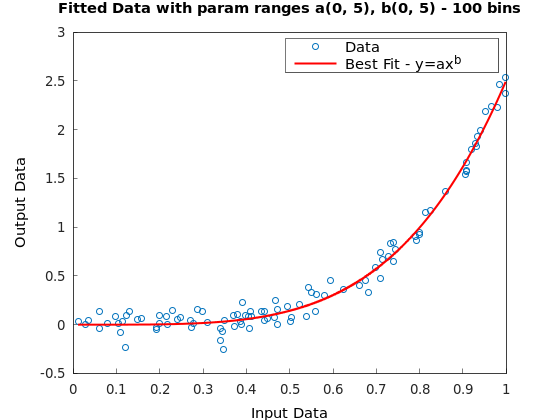
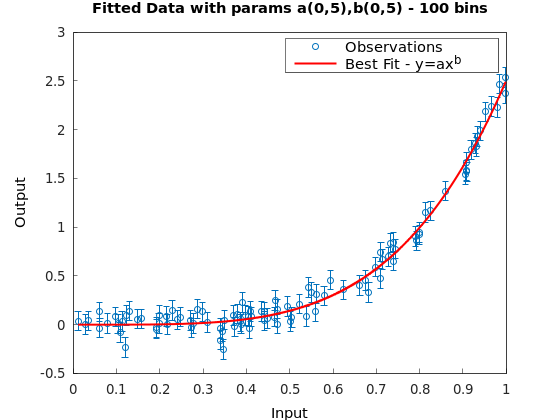
Ammended plots and constructor error handling
Included error handling for constructor when parameter space is too large with custom error for negative bins inputted causing uint to cycle to maximum possible value.
Slightly changed the plotting so that error bars are used.

diff --git a/test/source/test_sampler.cpp b/test/source/test_sampler.cpp
@@ -9,6 +9,7 @@
 #include <vector>
 #include <string>
 #include <sstream>
+#include <filesystem>
 
 using namespace Catch::Matchers;
 
@@ -177,9 +178,14 @@ TEST_CASE("Test file reader (double) with negative sigma value in second row", "
 
 }
 
-// TEST_CASE("Test Sampler constructor", "[Sampler]"){
-//     int placeholder;
-// }
+TEST_CASE("Test Sampler constructor", "[Sampler]"){
+    std::array<std::string, 2> names = {"a", "b"};
+    std::array<double, 2> min_vals = {0.4,1.9};
+    std::array<double, 2> max_vals = {3.0, 9.0};
+    UniformSampler<double, 2> uniform_sampler("data/problem_data_2D.txt",param_2_model_func<double>,names, min_vals, max_vals,2);
+
+
+}
 // TODO: Create test cases for constructor, rigidity = true for loadData and chheck for additional aspects of the sampling behaviour we want to check for. Add tests for param ranges of different sizes.
 TEST_CASE("Preliminary Test uniform sampling 1 to 2 dimensions with range (0,1)","[Uniform_Sampler]"){
     // instantiate Uniform Sampler with double data type and two parameters.
@@ -253,7 +259,7 @@ TEST_CASE("Test likelihood function","[Likelihood_Calc]"){
     }
 }
 
-TEST_CASE("Sampling Statistics","[Uniform_Sampler][Summarise]"){
+TEST_CASE("Sampling Statistics","[Uniform_Sampler][Summarise][Plotting]"){
     //  Made a python file to curve fit the same data to y = ax^b. Testing against parameters found using scipy.optimise.curve_fit
     std::array<std::string,2> names = {"a", "b"};
     std::array<double, 2> min_vals = {0, 0};
@@ -270,18 +276,21 @@ TEST_CASE("Sampling Statistics","[Uniform_Sampler][Summarise]"){
         CHECK_THAT(params_infos[i].mean_parameter,WithinRel(actual_param[i],0.01));
         CHECK_THAT(params_infos[i].marginal_distribution_peak,WithinAbs(actual_param[i],0.01 * params_infos[i].width));
     }
-    uniform_sampler.plot_histograms();
-    uniform_sampler.plot_best_fit();
+    REQUIRE_NOTHROW(uniform_sampler.plot_histograms());
+    REQUIRE_NOTHROW(uniform_sampler.plot_best_fit());
 }
 
-TEST_CASE("test g"){
+TEST_CASE("TEST PLOTTING","[Plotting][Uniform_Sampler]"){
     std::array<std::string,2> names = {"a", "b"};
-    std::array<double, 2> min_vals = {2.5, 3.5};
-    std::array<double, 2> max_vals = {3.5, 5};
+    std::array<double, 2> min_vals = {1.9, 3.1};
+    std::array<double, 2> max_vals = {3.5, 5.53};
 
     UniformSampler<double, 2> uniform_sampler("data/problem_data_2D.txt", param_2_model_func<double>, names, min_vals, max_vals, 1000);
     uniform_sampler.sample();
     uniform_sampler.summarise();
     uniform_sampler.plot_histograms();
     uniform_sampler.plot_best_fit();
+    CHECK(std::filesystem::exists("plots/Sample2D/MarginalDistribution/dist_b_3.1_5.53_1000_y=ax^b.png"));
+    CHECK(std::filesystem::exists("plots/Sample2D/MarginalDistribution/dist_a_1.9_3.5_1000_y=ax^b.png"));
+    CHECK(std::filesystem::exists("plots/Sample2D/CurveFit/fit_a_1.9_3.5_b_3.1_5.53_1000_y=ax^b.png"));
 }

diff --git a/include/Sampler.hpp b/include/Sampler.hpp
@@ -101,7 +101,7 @@ class Sampler
         }
     }
     
-    void plot_histograms(std::string func_desc = "y=Ax^b", std::string application_name = "Sample2D") const {
+    void plot_histograms(std::string func_desc = "y=ax^b", std::string application_name = "Sample2D") const {
         for (std::size_t i = 0; i < num_params; i++){
             std::string name = "Param " + params_info[i].name + " Marginal Distribution (" + std::to_string(bins) + " bins) - " + func_desc;
             std::string minimum_param_val = removeTrailingDecimalPlaces<REAL>(params_info[i].min);
@@ -117,18 +117,18 @@ class Sampler
         std::array<REAL, num_params> fit_params;
         for (std::size_t i = 0; i < num_params; i++){
             if (i != 0){
-                param_ranges += ", ";
+                param_ranges += ",";
                 file_param_ranges += "_";
             }
             file_param_ranges += params_info[i].name + "_" + removeTrailingDecimalPlaces<REAL>(params_info[i].min) + "_" + removeTrailingDecimalPlaces<REAL>(params_info[i].max); 
-            param_ranges += params_info[i].name + "(" + removeTrailingDecimalPlaces<REAL>(params_info[i].min) + ", " + removeTrailingDecimalPlaces<REAL>(params_info[i].max) + ")";
+            param_ranges += params_info[i].name + "(" + removeTrailingDecimalPlaces<REAL>(params_info[i].min) + "," + removeTrailingDecimalPlaces<REAL>(params_info[i].max) + ")";
             fit_params[i] = params_info[i].mean_parameter;
         }
         
-        std::string name = "Fitted Data with param ranges " + param_ranges + " - " + std::to_string(bins) + " bins";
+        std::string name = "Fitted Data with params " + param_ranges + " - " + std::to_string(bins) + " bins";
         std::string filepath = "plots/"+ application_name + "/CurveFit/fit_" + file_param_ranges + "_" + std::to_string(bins) + "_" + func_desc + ".png";
 
-        plot_fitted_data<REAL, num_params>(name, filepath,func_desc, fit_params, model_function, observations.inputs, observations.outputs);
+        plot_fitted_data<REAL, num_params>(name, filepath,func_desc, fit_params, model_function, observations.inputs, observations.outputs, observations.sigmas);
     }
 
     private:

diff --git a/include/UniformSampler.hpp b/include/UniformSampler.hpp
@@ -17,10 +17,17 @@
 template<typename REAL, std::size_t num_params>
 class UniformSampler : public Sampler<REAL, num_params>{
     public:
-    UniformSampler(const std::string &filepath, const std::function<REAL(REAL,std::array<REAL,num_params>&)> &func,std::array<std::string,num_params> names, std::array<REAL,num_params> min_values, std::array<REAL, num_params> max_values, uint num_bins = 100, const bool rigidity = false) : Sampler<REAL, num_params>(filepath, func,names, min_values, max_values, num_bins, rigidity){}
+    UniformSampler(const std::string &filepath, const std::function<REAL(REAL,std::array<REAL,num_params>&)> &func,std::array<std::string,num_params> names, std::array<REAL,num_params> min_values, std::array<REAL, num_params> max_values, uint num_bins = 100, const bool rigidity = false) : Sampler<REAL, num_params>(filepath, func,names, min_values, max_values, num_bins, rigidity){
+        if (num_bins > 400000000){ // check for negative value inputted causing uint to cycle back to maximum possible value.
+            throw std::domain_error("Error - Abnormally large number of bins selected above 400,000,000. Please use a smaller number of bins.");
+        }
+        if (std::pow(num_bins,num_params) > 10000000){
+            std::cerr << "Warning - Total parameter space exceeds 10,000,000. Uniform Sampling techniques are inefficient at this scale." << std::endl;
+        }
+    }
     void sample() override {
         if (this -> been_sampled){
-            std::cerr << "Error - Procedure aborted as UniformSampler instance has already sampled the data points." << std::endl;
+            std::cerr << "Error - Procedure aborted as this UniformSampler instance has already sampled the data points." << std::endl;
         }
 
         const std::array<ParamInfo<REAL>, num_params>& param_info = this -> get_params_info();

diff --git a/include/Plot.hpp b/include/Plot.hpp
@@ -69,12 +69,10 @@ void plot_histogram(const std::string &name, const std::string &filepath,const P
     
     legend({"Marginal Distribution","Gaussian Fit: μ = " + mu + ", σ  = " + sig});
     save(filepath);
-    //close();
-    //show();
 }
 
 template <typename REAL, std::size_t num_params>
-void plot_fitted_data(std::string name, std::string filepath, std::string func_desc,std::array<REAL, num_params> params, const std::function<REAL(REAL,std::array<REAL,num_params>&)> &func,std::vector<REAL> x ,std::vector<REAL> y, uint num_fit_points = 10000){
+void plot_fitted_data(std::string name, std::string filepath, std::string func_desc,std::array<REAL, num_params> params, const std::function<REAL(REAL,std::array<REAL,num_params>&)> &func,std::vector<REAL> x ,std::vector<REAL> y, std::vector<REAL> sigma, uint num_fit_points = 10000){
     std::vector<REAL> smooth_x; // input and outputs of highly granular fit with resultant params
     std::vector<REAL> smooth_y;
     auto maxIt = std::max_element(x.begin(),x.end());
@@ -88,14 +86,13 @@ void plot_fitted_data(std::string name, std::string filepath, std::string func_d
         smooth_y.push_back(func(i,params));
     }
     figure();
-    scatter(x, y);
+    errorbar(x, y, sigma,"none");
     hold(on);
     auto p = plot(smooth_x, smooth_y, "r");
     p -> line_width(2);
     title(name);
-    xlabel("Input Data");
-    ylabel("Output Data");
-    legend({"Data","Best Fit - " + func_desc});
+    xlabel("Input");
+    ylabel("Output");
+    legend({"Observations","Best Fit - " + func_desc});
     save(filepath);
-    //close();
 }

diff --git a/source/lib/Observations.cpp b/source/lib/Observations.cpp
@@ -19,7 +19,6 @@ void Observations<REAL>::loadData(const std::string& filename, const bool rigidi
     //ifstream means input file stream
     std::ifstream filestream(filename);
     if (!filestream.is_open()) {
-        
         std::string error_message = "Unable to open file: " + filename;
         throw std::runtime_error(error_message);
     }
